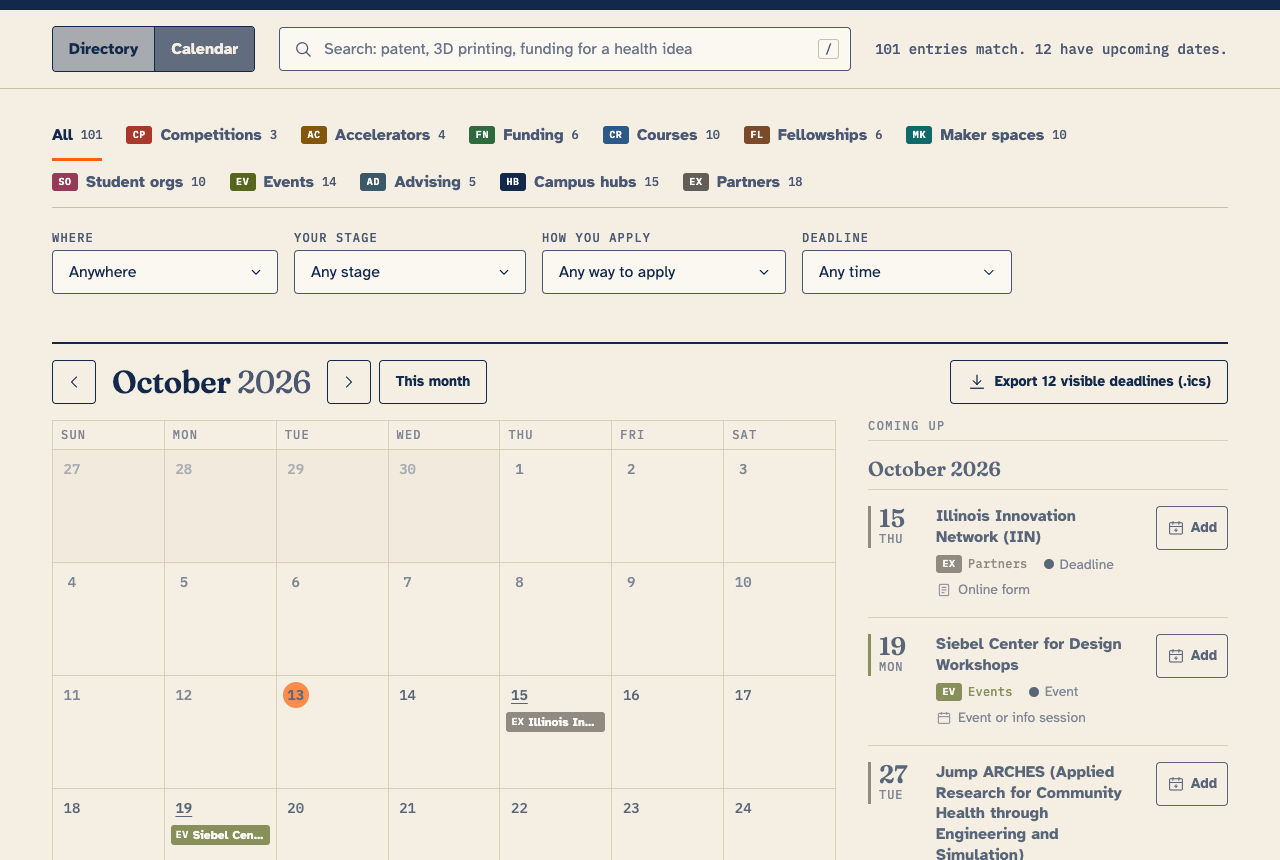
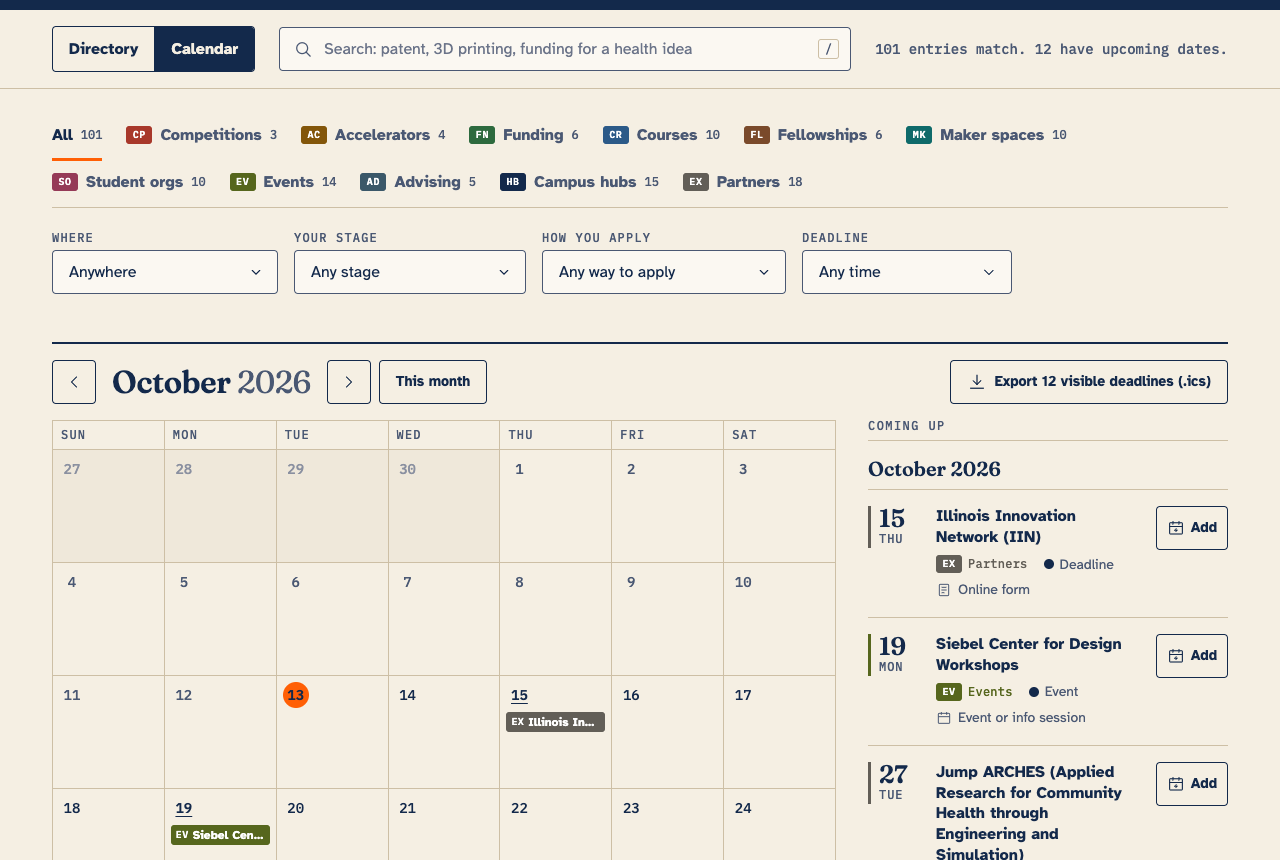
Add design brief: references, principles, concepts, design system, critique loop

diff --git a/notes/design_brief.md b/notes/design_brief.md
@@ -1,0 +1,249 @@
+# Design brief: Founders Field Guide
+
+Written 2026-10-13 for round 2. It covers the reference study, the principles we took from
+it, the three concepts we weighed, the design system as built, and the critique loop with
+before and after screenshots.
+
+The goal is a directory people remember and still understand in five seconds. The surface is
+distinctive. Search, filters, the calendar, and apply buttons stay conventional.
+
+## Step A: references
+
+Method: each homepage and one inner page was captured with Playwright at 1280x800 and 390x844.
+We viewed the screenshots and read the computed type, color, spacing, and radius values from the
+live pages. The notes below are ours. Nothing was copied: no layout, branding, illustration, or
+copy.
+
+| Site | What works | What to learn | What not to copy |
+|---|---|---|---|
+| **YC Startup Directory** | Filter-first. Every facet option shows a count, a big search box sits above the results, and a "Showing 40 of 1,000+" line follows. Each row is name, location, a one-line tagline, and tags. A serif H1 on a warm off-white page gives it credibility without coldness. | Rows beat cards for 100+ items. A count next to every option. Always a one-line "what it is". | 10px uppercase tags (too small for students, and illegible on a projector). |
+| **YC /apply** | The deadline, the decision date, and what happens if you are late fit in one plain paragraph above a single button. | Say the date and its consequence in words, near the action. | Prose-only steps. We need structured fields the calendar can use. |
+| **Techstars** | Breadcrumbs, a small eyebrow label above the title, and one strong apply band at the end. | An eyebrow (the category) above every detail title. | An 82px hero over photography that pushes content below the fold, and program pages with no steps, only buttons. |
+| **Antler** | Big stat numerals with a thin rule between them. Rectangular buttons with a small radius. | A stat row in the masthead. | A floating settings button over content, and carousels that clip cards. |
+| **Stripe** | Restrained color, light-weight large headlines, and a two-tone headline trick. | Hierarchy carried by weight and color rather than boxes. | The animated gradient, live counters, and chat popups. |
+| **Stripe Atlas** | The clearest application steps in the set: numbered markers, short verb-led text, 1 to 3 lines each. | Numbered steps on every resource page. | The diagonal gradient slab. |
+| **Product Hunt** | Ranked rows with fixed-width counters on the right that line up down the list. A countdown card for the thing that closes soon. | A fixed-width deadline column that aligns down the list, and urgency treatment within 7 days. | Inline ads, sign-in overlays, and a crowded mobile header. |
+| **Indie Hackers** | Deadlines written as sentences ("voting ends in 8 hours"). A rank gutter on the left. | Relative time next to dates ("In 2 days"). A number gutter. | Dim slate-on-navy body text at 14px. |
+| **Luma** | An agenda grouped by day, time first, status chips at 12px with a small radius, and a mini month calendar with dots. On a phone it drops the month and keeps the list. | Agenda beside the month grid. On a phone, agenda only. Students already know this pattern. | Per-event custom themes that hurt legibility. |
+| **Linear** | Text-only filter tabs where the active tab is just stronger text. A changelog with a date gutter. Calm density and careful type details. | Text tabs with a single underline. A date gutter in the agenda. | Dark-only theme, and variable-font weight tuning that will not survive fallbacks. |
+| **read.cv** | Offline ("deployment paused"), so we skipped it. | | |
+| **Are.na** | Radical restraint, and a hairline key/value table for metadata. | Hairline key/value rows for Details and Sources. | A homepage with almost no hierarchy, and a bottom tab bar that covers content. |
+| **It's Nice That** (editorial index) | The item count in the title, scoped search, and a "refreshed" freshness stamp. | Show "Last verified" on every entry and the data date in the footer. | Masonry with uneven images. We have no imagery. |
+| **a16z speedrun** (extra) | The deadline and program dates in the first sentence of the apply page. Bold-label bullets. | Bold labels on summary rows. | Autoplay video, and -6px tracking. |
+| **Neo Scholars** (extra) | Fast routing into the three programs. | A clear "start here" for hubs. | White text on pale blue (it fails contrast). |
+| **Contrary Research** (extra) | A horizontal dropdown filter bar between hairlines, and alphabetical sections with counts. | A dropdown filter bar instead of a side rail, and section headers with counts. | A subscribe modal over the empty state. |
+
+Patterns that every site handles badly: empty states. YC shows one sentence. Contrary shows big
+type with a popup on top. We name the active filters, suggest what to loosen, and give a
+Clear all button. The calendar's empty state also counts the matching entries that still have
+dates to be confirmed.
+
+## Principles
+
+1. **Answer three questions in one row.** Each row says what it is, whether it is for you, and
+   what to do next. Name, tagline, "choose this if", deadline, how to apply, in that scan order.
+2. **Rows, rules, and whitespace, not boxes.** Thin rules and generous spacing hold a long list
+   together. Boxes are reserved for the one thing that needs to stand apart: key dates.
+3. **Honest about time.** Confirmed and Typical dates look different by shape, not only by
+   color. Nothing without a date disappears. It moves to "Rolling and unscheduled".
+4. **Orange means act now.** It marks today, the primary apply button, the selected tab, and
+   deadlines inside 7 days. Nothing decorative is orange.
+5. **Conventional controls, distinctive surface.** Native selects, a normal search box, standard
+   tabs, a real month grid. The personality lives in type, numbering, color blocking, and the
+   season strip.
+6. **Uncertainty stays visible but quiet.** Every unverified entry is marked, but the mark is
+   small enough that 77 marked rows do not shout.
+7. **One family of parts.** Every component shares a 4px radius, a 1px stroke, a 1.5px icon
+   stroke, the same focus ring, and the same 160 to 220ms ease-out.
+8. **Works on a projector and a phone.** 16px minimum body text, AA contrast everywhere, tap
+   targets of 44px, and no horizontal scroll at 390px.
+
+## Step B: concepts
+
+**1. Field guide.** The directory reads as an editorial catalog. Every resource has a permanent
+number (No. 001 to No. 101), sections are numbered with their entry counts, and the detail page
+is set like a guide entry, with labeled rows and margin notes. You scan it like a printed guide,
+and a single page prints as a clean handout.
+
+**2. Season map.** The home view is a horizontal timeline of the academic year, with programs
+sitting on the weeks they open and close, so the calendar is the centerpiece. It is memorable,
+but only 12 entries have confirmed upcoming dates and 40 still need dates. A timeline home
+would be mostly empty, and it would push the 49 rolling or no-deadline resources (makerspaces,
+advising, offices) off the main view. That hurts the student who just wants a 3D printer.
+
+**3. Stage ladder.** Primary navigation is your stage (just an idea, building a prototype,
+launched), with categories as a secondary filter. It is appealing in theory, but 58 of 101
+resources are honestly "Any stage". The ladder would put most entries on every rung and teach
+students nothing. Stage works better as a filter.
+
+**Choice: Field guide, with a season strip as its signature element.** The guide structure
+keeps the directory fast to scan and easy to print. It also suits a student-edited publication:
+the masthead carries a dateline ("Fall 2026 edition"), and every entry has a permanent number
+that teammates can cite ("fix No. 044"). From the season map we kept one element: a thin
+strip across the navy masthead showing the academic year from August to July, with an orange
+"Today" line and a dot for every dated deadline, colored by category. That is the thing people
+will describe to a friend ("the orange line shows where we are in the year, and the dots are
+what's coming"). It reacts to every filter, it links to each dated resource, and it never gets in
+the way, because the directory sits right below it.
+
+## Step C: design system (implemented as CSS variables in `scripts/site/styles.css`)
+
+**Color.**
+- Illinois navy `#13294B` is the ink for all text and the large structural block: the masthead
+  and the footer bookend the page in navy.
+- The page itself is warm paper `#F5EFE3`, with `#EBE3D2` for the key-dates panel and hover rows.
+- Supporting neutrals: secondary text `#4A5873` (6.2:1 on paper) and rules `#CDBFA5`.
+- Orange `#FF5F05` is used only as a fill: the today marker, primary buttons (navy text on
+  orange, 4.8:1), the selected-tab underline, and the urgency dot. Orange text uses `#B53D00`
+  (5.0:1 on paper).
+- Category inks are eleven muted printing inks, from brick to slate. All reach at least 5.5:1
+  on paper, and white reaches 6.3:1 or better on each.
+- Category color is never the only cue. Every category carries a two-letter code (CP, AC, FN,
+  CR, FL, MK, SO, EV, AD, HB, EX) on tabs, calendar markers, and agenda rows.
+
+**Deadline types by shape.**
+
+| Type | Mark | Calendar marker |
+|---|---|---|
+| Confirmed | solid dot | filled |
+| Typical | dashed ring | outlined and dashed, labeled "Typical, date not yet posted" |
+| Rolling | open loop | not on the calendar |
+| None published | bar | not on the calendar |
+| Unknown | dotted ring | not on the calendar |
+
+**Typography.**
+- Display: Fraunces, an old-style serif with optical sizes, for headlines, section names,
+  resource names, and big date numerals. It gives the guide its editorial voice.
+- Text: Atkinson Hyperlegible, designed for low-vision readers, which pays off on a projector.
+- Labels: IBM Plex Mono for numbers, dates, codes, and letterspaced small labels. It also gives
+  tabular figures.
+- Fallbacks: Iowan Old Style or Georgia, then system sans, then system mono.
+- Avoided: Inter, Roboto, Arial, and Space Grotesk.
+- Scale: a 1.25 ratio (12, 14, 16, 18, 20, 25, 31, 39, 49, 61).
+- Reading text is capped near 58 to 68 characters.
+- Real quotation marks are used in UI copy, and list labels are letterspaced uppercase mono.
+
+**Layout.**
+- Spacing scale: 4, 8, 16, 24, 32, 48, 72.
+- Content width: 1240px.
+- Directory row grid: number, main text, a 160px deadline column, and a 190px how-to-apply
+  column, so dates line up down the page.
+- Sections open with a 2px navy rule, and rows are divided by 1px rules.
+- The resource page uses a main column plus a 340px aside for key dates and related entries.
+- On phones the resource page reads in order: summary, how to apply, key dates, details, sources.
+
+**Components.**
+- Radius 4px, stroke 1px, icon stroke 1.5px (custom inline SVG: form, mail, pitch, event, course,
+  staff, door, calendar, download).
+- Focus ring: a 2px navy ring offset by paper.
+- Hover: rows and quiet buttons take the `#EBE3D2` panel tone.
+- Active chips are filled navy and removable. The deadline menu is a popover with radio options,
+  counts, and a date range.
+- No drop shadows, except a light one under the open deadline popover. No gradients, no glass,
+  no emoji.
+
+**Motion.**
+- First load: rows fade up with a 24ms stagger.
+- After that, filter results fade in over 220ms, so context is kept without a jump.
+- The deadline popover and chips appear in 160ms.
+- Arriving at a resource from the calendar briefly tints its header orange.
+- `prefers-reduced-motion` removes all of it.
+
+**Voice.**
+- Plain and specific, like a student editor. Examples: "Every entrepreneurship resource at
+  Illinois, in one guide", "Worth a look next", "Rolling and unscheduled", and "Nothing matches all
+  of that."
+- No exclamation points, no em dashes, no filler, no lorem ipsum.
+- No Block I logo or wordmark. The footer carries "Student-run project, not an official University
+  of Illinois resource."
+
+## Step D: details we spent time on
+
+- **Resource page.**
+  - An at-a-glance column holds the deadline, the primary apply button, and the step count, so
+    acting needs no scrolling.
+  - "Choose this if" is the one orange label, and its row is set bold.
+  - Empty rows are never rendered.
+  - Entries with no steps say so honestly and point to the official page.
+- **Empty states.** The directory names what to loosen. The calendar counts the matching entries
+  whose dates are still to be confirmed.
+- **Footer.**
+  - A navy bookend with three short columns: where the data came from, how fresh it is, and how
+    to help.
+  - Then the disclaimer, and a colophon naming the typefaces.
+- **First paint.** The masthead headline and lede rise in 320ms. Stats are in the HTML, so the
+  page reads correctly before the script runs.
+- **Print handout.**
+  - One letter page per resource, verified for all 101 by a test script.
+  - Order: summary, key dates, steps, details.
+  - Links print as URLs. Buttons, navigation, and related links are dropped.
+- **How-to-use line.** It sits near the top and disappears after the first interaction. It
+  stays gone, remembered in local storage when the browser allows it.
+
+## Step E: critique loop
+
+Screenshots live in `docs/screenshots/critique/` (pass 0 is the first build, then pass 1 and
+pass 2). Final screenshots are in `docs/screenshots/`.
+
+### Pass 0 (first build)
+
+| Check | Finding |
+|---|---|
+| Squint test | Hierarchy reads: navy block, then section rules, then names. But the masthead takes a full screen and the content starts below the fold at 1280x860. |
+| Five-second test | The headline says what it is. On a phone, the stats and strip take the whole first screen and the directory starts two screens down. |
+| Generic look? | Rows, type, and numbering feel like ours. The filter row wraps awkwardly (Order alone on a second line). |
+| Signature concept | The season strip is visible, but dots stacked downward cover the month labels. |
+| Accessibility | Contrast passes. The programmatic focus on the resource title draws a box around the h1. |
+| Orange | Used sparingly. Fine. |
+
+### Pass 1 (commit "Design revision pass 1")
+
+- The masthead became two columns (headline left, stats right), and the tabs now show in the
+  first desktop screen.
+- On phones, the stats became a single row of four and the edition label is hidden.
+- Strip dots stack upward from the line, and the Today label moved left of the line.
+- Phone filters collapse behind one Filters button with an active-filter count (the YC
+  pattern). The Order select moved to the right of the filter row on desktop.
+- The resource page uses a slim navy header (no hero), and the h1 focus ring is suppressed
+  (focus still moves for screen readers).
+- Phone resource page reading order fixed. The phone calendar shows the agenda only (no month
+  navigation that would control nothing).
+
+### Pass 1 critique
+
+| Check | Finding |
+|---|---|
+| Squint test | Good. But 77 dashed "Unverified" boxes make a strong repeated column, louder than the deadlines. |
+| Five-second test | Pass. Headline, tabs, and the first section are visible. |
+| Generic look? | The resource page's sticky bar shows only the view switch, an empty band that reads as unfinished. |
+| Signature | Visible and useful. |
+| Accessibility | Tap targets are 44px or more on chips, tabs, selects, and day buttons. |
+| Orange | The primary apply button sits below the fold on the resource page, so the most important orange is missing from the first view. |
+
+### Pass 2 (commit "Design revision pass 2")
+
+- The resource header gained an at-a-glance column: deadline, the orange apply button, step
+  count, and "How to apply".
+- The sticky bar is hidden on resource pages, and the breadcrumb handles navigation.
+- "Unverified" became a small dotted-ring mark plus a label in muted mono, with no box. The
+  resource page still shows a full "Needs confirmation" notice.
+- Phone rows put the deadline and how-to-apply side by side, which cuts each row by about a third.
+
+### Final check against the list
+
+1. **Squint:** navy block, then the strip, then tabs, then sections, then names, then deadlines. It reads blurred.
+2. **Five seconds:** the headline says what it is. Tabs and "How to use this guide" say where to start.
+3. **Generic?** No component-library defaults remain. Selects are native but styled to the family.
+4. **Signature:** the season strip sits in every list view's masthead and reacts to filters.
+5. **WCAG AA:**
+   - All text pairs are 4.8:1 or better, measured.
+   - Focus ring on every control.
+   - 44px targets.
+   - Body text 16px, resource names 20px and up.
+6. **Orange:** it appears in four places (today, the apply button, the selected tab, and
+   deadlines inside a week), and each one means "act".
+
+Known trade-offs:
+- The strip's dots are small on a phone (13px), so the agenda list is the phone's way into dates.
+- Fonts come from Google Fonts. Offline, the page falls back to Georgia and system sans, and it
+  stays legible.
